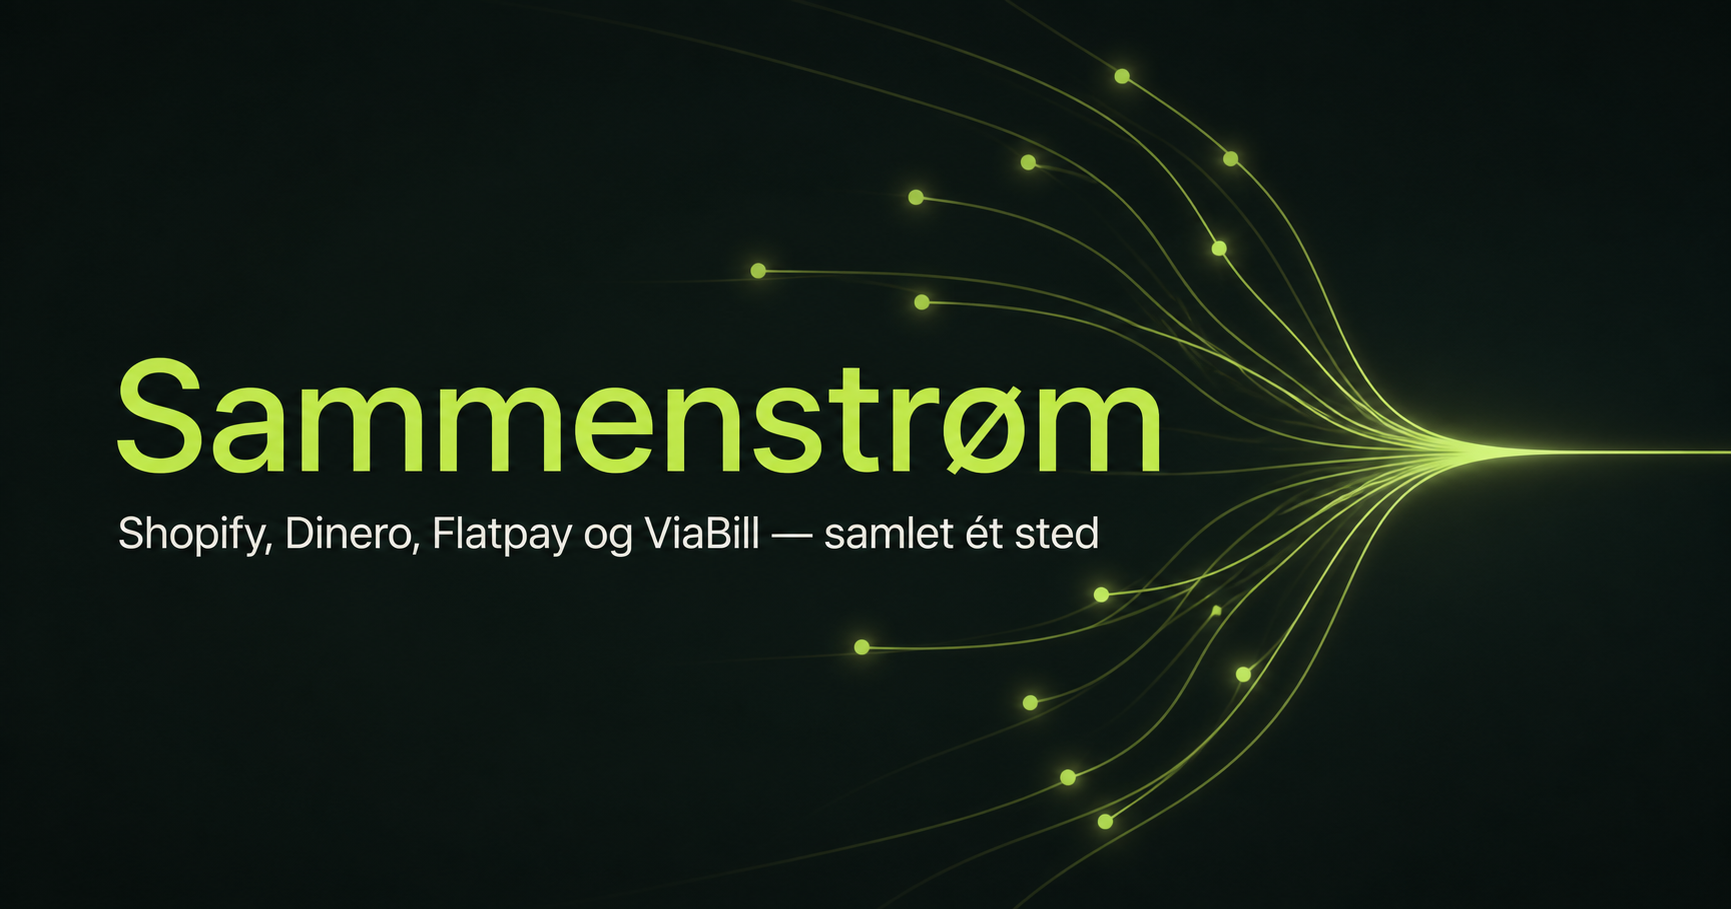
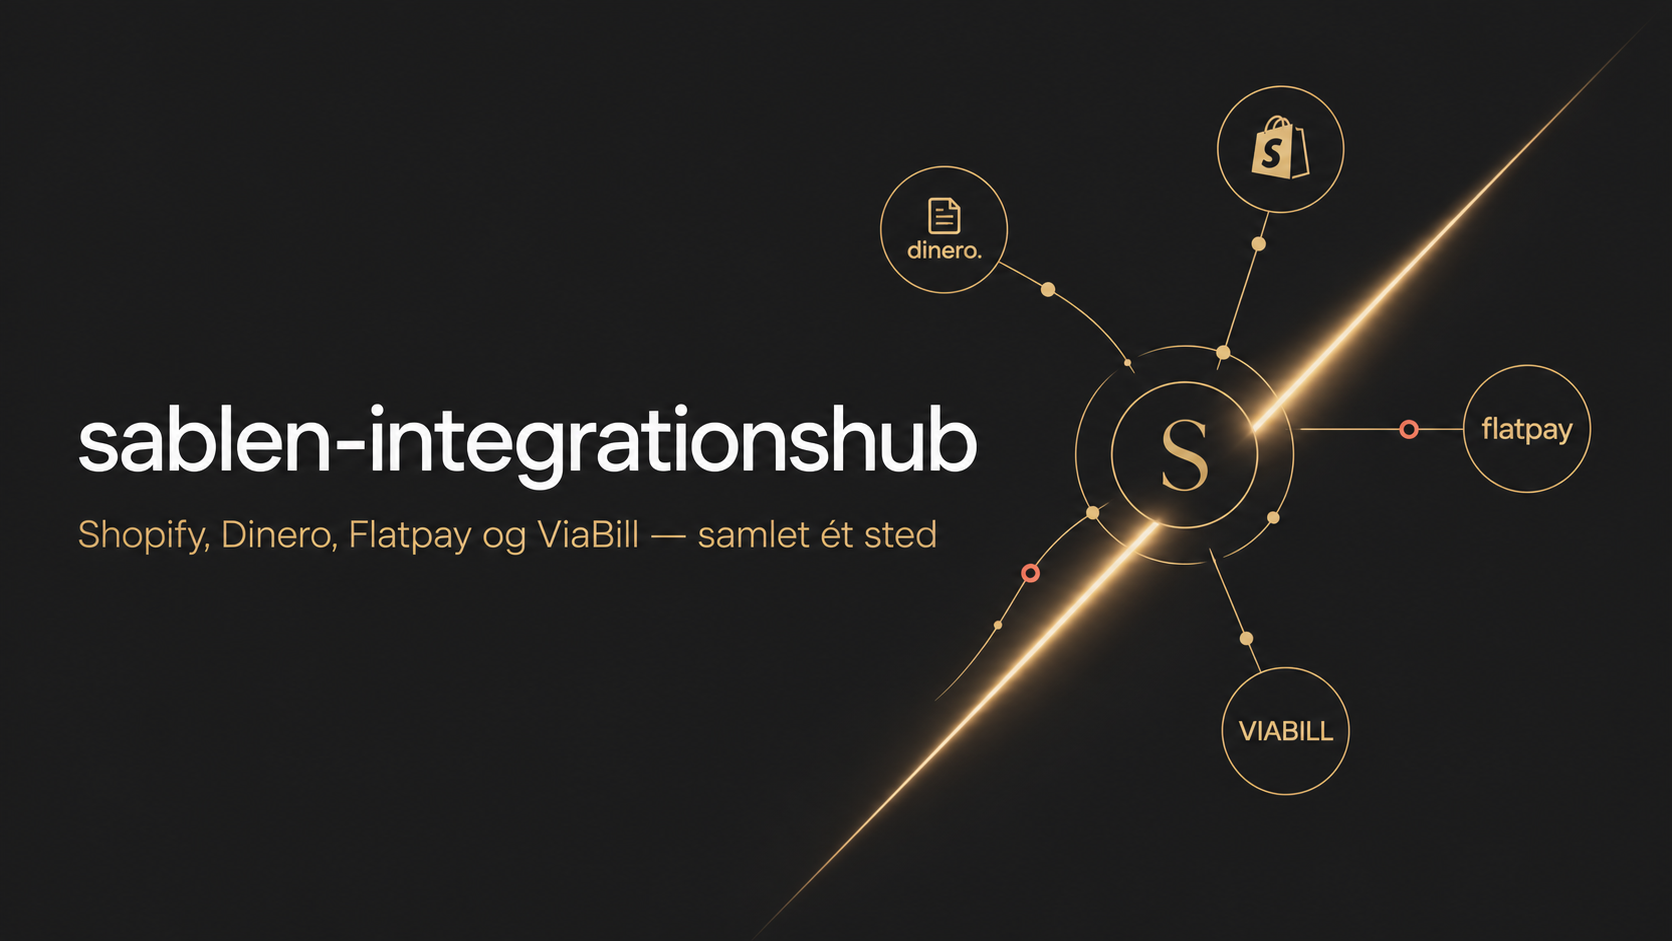
Apply Sablen brand and expand Dinero accounts

diff --git a/app/page.tsx b/app/page.tsx
@@ -1,7 +1,7 @@
 'use client';
 
 import { useEffect, useState } from 'react';
-import { ArrowUpRight, BookOpenCheck, Check, ChevronDown, CircleDollarSign, CreditCard, Landmark, LayoutDashboard, PackageCheck, RefreshCw, Save, Search, Settings2, ShoppingBag, SlidersHorizontal, WalletCards, Zap } from 'lucide-react';
+import { ArrowUpRight, BookOpenCheck, Check, ChevronDown, CircleDollarSign, CreditCard, Landmark, LayoutDashboard, PackageCheck, RefreshCw, Save, Search, Settings2, ShoppingBag, SlidersHorizontal, WalletCards } from 'lucide-react';
 import { Button } from '@/components/ui/button';
 import { Input } from '@/components/ui/input';
 import { Badge } from '@/components/ui/badge';
@@ -20,15 +20,15 @@ export default function Home() {
   const [query, setQuery] = useState('');
   const [view, setView] = useState<'orders' | 'payments' | 'settings'>('orders');
   const [notice, setNotice] = useState('');
-  const [accounts, setAccounts] = useState({ sales: '1000', vat: '6900', fees: '3628', clearing: '55000', start: '2026-09-01' });
+  const [accounts, setAccounts] = useState({ vatCode: 'U25 - Dansk salgsmoms (25%)', noVatCode: 'U0 - Momsfrit (0%)', goodsVat: '1000 - Salg af varer/ydelser m/moms', goodsNoVat: '1050 - Salg af varer/ydelser u/moms', shippingVat: '1350 - Salg af fragt - momspligtig', shippingNoVat: '1300 - Salg af fragt - momsfri', servicesVat: '1000 - Salg af varer/ydelser m/moms', servicesNoVat: '1050 - Salg af varer/ydelser u/moms', refundGoodsVat: '1000 - Salg af varer/ydelser m/moms', refundGoodsNoVat: '1050 - Salg af varer/ydelser u/moms', refundShippingVat: '1350 - Salg af fragt - momspligtig', refundShippingNoVat: '1300 - Salg af fragt - momsfri', refundServicesVat: '1000 - Salg af varer/ydelser m/moms', refundServicesNoVat: '1050 - Salg af varer/ydelser u/moms', fees: '3628 - Betalingsgebyrer', clearing: '55000 - Mellemregning', start: '2026-09-01' });
   const filtered = orders.filter((order) => order.id.includes(query) || order.status.toLowerCase().includes(query.toLowerCase()));
-  useEffect(() => { const saved = localStorage.getItem('sammenstroem-settings'); if (saved) setAccounts(JSON.parse(saved)); }, []);
+  useEffect(() => { const saved = localStorage.getItem('sablen-integrationshub-settings'); if (saved) setAccounts(current => ({ ...current, ...JSON.parse(saved) })); }, []);
   const notify = (message: string) => { setNotice(message); window.setTimeout(() => setNotice(''), 2600); };
-  const saveSettings = () => { localStorage.setItem('sammenstroem-settings', JSON.stringify(accounts)); notify('Indstillingerne er gemt'); };
+  const saveSettings = () => { localStorage.setItem('sablen-integrationshub-settings', JSON.stringify(accounts)); notify('Indstillingerne er gemt'); };
   return (
     <main className="min-h-screen bg-background text-foreground lg:grid lg:grid-cols-[246px_1fr]">
       <aside className="sidebar-shell hidden min-h-screen flex-col lg:flex">
-        <div className="flex h-20 items-center gap-3 px-6"><span className="grid size-9 place-items-center rounded-xl bg-primary text-primary-foreground shadow-[0_0_28px_rgba(174,255,65,.18)]"><Zap className="size-5" fill="currentColor" /></span><div><p className="text-[17px] font-semibold tracking-tight text-white">Sammenstrøm</p><p className="text-[10px] uppercase tracking-[.19em] text-slate-500">Integration hub</p></div></div>
+        <div className="flex h-24 items-center px-6"><img src="/sablen-logo.webp" alt="Sablen" className="h-auto w-[136px]" /></div>
         <nav className="flex-1 px-3 py-4" aria-label="Primær navigation">
           <p className="nav-label">Overblik</p><a className="nav-item" href="#"><LayoutDashboard />Dashboard</a>
           <p className="nav-label mt-7">Bogføring</p><button className={`nav-item w-full ${view === 'orders' ? 'active' : ''}`} onClick={() => setView('orders')}><PackageCheck />Ordrer <span className="ml-auto rounded-md bg-black/10 px-1.5 py-0.5 text-[10px]">24</span></button><button className={`nav-item w-full ${view === 'payments' ? 'active' : ''}`} onClick={() => setView('payments')}><CircleDollarSign />Betalinger</button>
@@ -37,7 +37,7 @@ export default function Home() {
         <div className="m-3 rounded-xl border border-white/8 bg-white/[.035] p-4"><div className="mb-2 flex items-center justify-between"><span className="text-xs text-slate-400">Systemstatus</span><span className="size-2 rounded-full bg-emerald-400 shadow-[0_0_10px_#34d399]" /></div><p className="text-xs font-medium text-white">Alle forbindelser kører</p><p className="mt-1 text-[11px] text-slate-500">Synkroniseret for 2 min. siden</p></div>
       </aside>
       <section className="min-w-0">
-        <header className="flex h-20 items-center justify-between border-b border-border bg-white px-5 md:px-8"><div className="flex items-center gap-3 lg:hidden"><span className="grid size-9 place-items-center rounded-xl bg-primary"><Zap className="size-5" /></span><span className="font-semibold">Sammenstrøm</span></div><div className="hidden items-center gap-2 text-sm text-muted-foreground lg:flex"><span>Min webshop</span><ChevronDown className="size-4" /></div><div className="ml-auto flex items-center gap-3"><div className="hidden text-right sm:block"><p className="text-sm font-medium">Rune Jensen</p><p className="text-xs text-muted-foreground">Administrator</p></div><span className="grid size-9 place-items-center rounded-full bg-[#e7f7d3] text-xs font-bold text-[#31510a]">RJ</span></div></header>
+        <header className="flex h-20 items-center justify-between border-b border-border bg-white px-5 md:px-8"><div className="flex items-center gap-3 lg:hidden"><img src="/sablen-logo.webp" alt="Sablen" className="w-[105px]" /></div><div className="hidden items-center gap-2 text-sm text-muted-foreground lg:flex"><span>Sablen.dk</span><ChevronDown className="size-4" /></div><div className="ml-auto flex items-center gap-3"><div className="hidden text-right sm:block"><p className="text-sm font-medium">Rune Jensen</p><p className="text-xs text-muted-foreground">Administrator</p></div><span className="grid size-9 place-items-center rounded-full bg-[#f1e7d7] text-xs font-bold text-[#6d5430]">RJ</span></div></header>
         {view === 'orders' && <div className="mx-auto max-w-[1440px] px-5 py-7 md:px-8 md:py-9" id="orders">
           <div className="mb-7 flex flex-col justify-between gap-5 sm:flex-row sm:items-end"><div><p className="eyebrow">Shopify · Dinero</p><h1 className="mt-1 text-3xl font-semibold tracking-[-.035em] md:text-[36px]">Ordrer</h1><p className="mt-2 text-sm text-muted-foreground">Følg salg, realisering og bogføring ét sted.</p></div><Button className="h-10 rounded-xl px-4 shadow-sm"><RefreshCw data-icon="inline-start" />Synkronisér nu</Button></div>
           <div className="mb-6 grid gap-3 sm:grid-cols-3"><Stat label="Omsætning i september" value="42.684,00 kr." note="↑ 12,4% fra august" tone="lime" /><Stat label="Klar til bogføring" value="8 ordrer" note="6.842,00 kr. i alt" /><Stat label="Kræver handling" value="1 ordre" note="Senest fejlet kl. 16.32" tone="warn" /></div>
@@ -65,8 +65,9 @@ const payments = [
 ];
 function Payments({ onBook }: { onBook: () => void }) { return <div className="mx-auto max-w-[1440px] px-5 py-7 md:px-8 md:py-9"><div className="mb-7 flex flex-col justify-between gap-5 sm:flex-row sm:items-end"><div><p className="eyebrow">Afstemning · Udbetalinger</p><h1 className="mt-1 text-3xl font-semibold tracking-[-.035em] md:text-[36px]">Betalinger</h1><p className="mt-2 text-sm text-muted-foreground">Afstem gebyrer og bogfør udbetalinger fra dine betalingsudbydere.</p></div><Button className="h-10 rounded-xl px-4" onClick={onBook}><BookOpenCheck />Bogfør 3 betalinger</Button></div><div className="mb-6 grid gap-3 sm:grid-cols-3"><Stat label="Klar til bogføring" value="20.082,57 kr." note="3 udbetalinger" tone="lime" /><Stat label="Gebyrer denne måned" value="450,70 kr." note="2,2% af omsætning" /><Stat label="Difference" value="0,00 kr." note="Alt stemmer" /></div><section className="overflow-hidden rounded-2xl border bg-white"><Table><TableHeader><TableRow className="bg-muted/45"><TableHead className="pl-5">Udbetalingsdato</TableHead><TableHead>Udbyder</TableHead><TableHead>Reference</TableHead><TableHead>Transaktioner</TableHead><TableHead className="text-right">Brutto</TableHead><TableHead className="text-right">Gebyrer</TableHead><TableHead className="text-right">Netto DKK</TableHead><TableHead>Status</TableHead></TableRow></TableHeader><TableBody>{payments.map(p => <TableRow key={p.reference}><TableCell className="pl-5">{p.date}</TableCell><TableCell className="font-medium">{p.provider}</TableCell><TableCell className="text-muted-foreground">{p.reference}</TableCell><TableCell>{p.count}</TableCell><TableCell className="text-right tabular-nums">{p.gross}</TableCell><TableCell className="text-right tabular-nums text-muted-foreground">{p.fees}</TableCell><TableCell className="text-right font-medium tabular-nums">{p.net}</TableCell><TableCell><Badge className={p.status === 'Bogført' ? 'badge-booked' : 'badge-pending'} variant="secondary">{p.status}</Badge></TableCell></TableRow>)}</TableBody></Table></section></div>; }
 
-type Accounts = { sales: string; vat: string; fees: string; clearing: string; start: string };
+type Accounts = { vatCode: string; noVatCode: string; goodsVat: string; goodsNoVat: string; shippingVat: string; shippingNoVat: string; servicesVat: string; servicesNoVat: string; refundGoodsVat: string; refundGoodsNoVat: string; refundShippingVat: string; refundShippingNoVat: string; refundServicesVat: string; refundServicesNoVat: string; fees: string; clearing: string; start: string };
 function Settings({ accounts, setAccounts, onSave }: { accounts: Accounts; setAccounts: React.Dispatch<React.SetStateAction<Accounts>>; onSave: () => void }) {
   const integrations = [{ name: 'Shopify', detail: 'Ordrer og refunderinger', icon: ShoppingBag, connected: true }, { name: 'Dinero', detail: 'Regnskab og bilag', icon: Landmark, connected: true }, { name: 'Flatpay', detail: 'Kortbetalinger og gebyrer', icon: CreditCard, connected: true }, { name: 'ViaBill', detail: 'Delbetalinger og afstemning', icon: WalletCards, connected: false }];
-  return <div className="mx-auto max-w-[1180px] px-5 py-7 md:px-8 md:py-9"><div className="mb-7"><p className="eyebrow">Opsætning</p><h1 className="mt-1 text-3xl font-semibold tracking-[-.035em] md:text-[36px]">Administration</h1><p className="mt-2 text-sm text-muted-foreground">Forbind dine systemer, og bestem hvordan posteringerne skal lande i Dinero.</p></div><h2 className="mb-3 text-sm font-semibold">Integrationer</h2><div className="mb-8 grid gap-3 md:grid-cols-2">{integrations.map(({ name, detail, icon: Icon, connected }) => <div key={name} className="flex items-center gap-4 rounded-2xl border bg-white p-4"><span className="grid size-11 place-items-center rounded-xl bg-muted"><Icon className="size-5" /></span><div className="flex-1"><p className="font-semibold">{name}</p><p className="text-xs text-muted-foreground">{detail}</p></div><Badge className={connected ? 'badge-booked' : ''} variant="secondary">{connected ? 'Forbundet' : 'Ikke forbundet'}</Badge><Button variant="ghost" size="icon-sm" aria-label={`Indstil ${name}`}><ArrowUpRight /></Button></div>)}</div><section className="rounded-2xl border bg-white"><div className="border-b p-5"><div className="flex items-center gap-3"><span className="grid size-10 place-items-center rounded-xl bg-[#e9f8d8]"><Landmark className="size-5 text-[#4c7818]" /></span><div><h2 className="font-semibold">Dinero-kontoplan</h2><p className="text-xs text-muted-foreground">Konti bruges, når ordrer og betalinger bogføres.</p></div></div></div><div className="grid gap-5 p-5 sm:grid-cols-2">{[['sales','Salgskonto','Salg af varer, inkl. moms'],['vat','Momskonto','Salgsmoms 25%'],['fees','Gebyrkonto','Betalings- og transaktionsgebyrer'],['clearing','Mellemregningskonto','Tilgodehavende hos betalingsudbydere']].map(([key,label,help]) => <label key={key} className="block"><span className="text-sm font-medium">{label}</span><Input className="mt-2 h-10" value={accounts[key as keyof Accounts]} onChange={e => setAccounts(a => ({...a,[key]:e.target.value}))} /><span className="mt-1.5 block text-xs text-muted-foreground">{help}</span></label>)}<label className="block"><span className="text-sm font-medium">Integrationen starter fra</span><Input type="date" className="mt-2 h-10" value={accounts.start} onChange={e => setAccounts(a => ({...a,start:e.target.value}))} /><span className="mt-1.5 block text-xs text-muted-foreground">Ældre ordrer bliver ikke automatisk bogført.</span></label><div className="flex items-center justify-between rounded-xl bg-muted/65 p-4"><div><p className="text-sm font-medium">Automatisk bogføring</p><p className="text-xs text-muted-foreground">Bogfør realiserede ordrer løbende</p></div><Switch defaultChecked aria-label="Automatisk bogføring" /></div></div><div className="flex justify-end border-t p-4"><Button className="h-10 rounded-xl px-4" onClick={onSave}><Save />Gem indstillinger</Button></div></section></div>;
+  const Field = ({ name, label }: { name: keyof Accounts; label: string }) => <label className="block"><span className="text-xs font-medium text-muted-foreground">{label}</span><div className="relative mt-1.5"><Input className="h-11 pr-9" value={accounts[name]} onChange={e => setAccounts(a => ({...a,[name]:e.target.value}))} /><ChevronDown className="pointer-events-none absolute right-3 top-1/2 size-4 -translate-y-1/2 text-[#c09960]" /></div></label>;
+  return <div className="mx-auto max-w-[1180px] px-5 py-7 md:px-8 md:py-9"><div className="mb-7"><p className="eyebrow">Opsætning</p><h1 className="mt-1 text-3xl font-semibold tracking-[-.035em] md:text-[36px]">Administration</h1><p className="mt-2 text-sm text-muted-foreground">Forbind dine systemer, og bestem hvordan posteringerne skal lande i Dinero.</p></div><h2 className="mb-3 text-sm font-semibold">Integrationer</h2><div className="mb-8 grid gap-3 md:grid-cols-2">{integrations.map(({ name, detail, icon: Icon, connected }) => <div key={name} className="flex items-center gap-4 rounded-2xl border bg-white p-4"><span className="grid size-11 place-items-center rounded-xl bg-muted"><Icon className="size-5" /></span><div className="flex-1"><p className="font-semibold">{name}</p><p className="text-xs text-muted-foreground">{detail}</p></div><Badge className={connected ? 'badge-booked' : ''} variant="secondary">{connected ? 'Forbundet' : 'Ikke forbundet'}</Badge><Button variant="ghost" size="icon-sm" aria-label={`Indstil ${name}`}><ArrowUpRight /></Button></div>)}</div><section className="rounded-2xl border bg-white"><div className="border-b p-5"><div className="flex items-center gap-3"><span className="grid size-10 place-items-center rounded-xl bg-[#f4eadb]"><Landmark className="size-5 text-[#9a7440]" /></span><div><h2 className="font-semibold">Dinero-kontoplan · Indland og EU</h2><p className="text-xs text-muted-foreground">Konti bruges, når ordrer, fragt og refunderinger bogføres.</p></div></div></div><div className="grid gap-5 p-5 sm:grid-cols-2"><div className="sm:col-span-2 grid gap-5 sm:grid-cols-2"><Field name="vatCode" label="Momskode for salg m/moms" /><Field name="noVatCode" label="Momskode for salg u/moms" /></div><div><h3 className="mb-3 border-b pb-3 font-medium text-[#c06452]">Kontoplan for salg</h3><div className="space-y-4"><Field name="goodsVat" label="Salg af varer m/moms" /><Field name="goodsNoVat" label="Salg af varer u/moms" /><Field name="shippingVat" label="Salg af fragt m/moms" /><Field name="shippingNoVat" label="Salg af fragt u/moms" /><Field name="servicesVat" label="Salg af ydelser m/moms" /><Field name="servicesNoVat" label="Salg af ydelser u/moms" /></div></div><div><h3 className="mb-3 border-b pb-3 font-medium text-[#c06452]">Kontoplan for refundering</h3><div className="space-y-4"><Field name="refundGoodsVat" label="Refundering af varer m/moms" /><Field name="refundGoodsNoVat" label="Refundering af varer u/moms" /><Field name="refundShippingVat" label="Refundering af fragt m/moms" /><Field name="refundShippingNoVat" label="Refundering af fragt u/moms" /><Field name="refundServicesVat" label="Refundering af ydelser m/moms" /><Field name="refundServicesNoVat" label="Refundering af ydelser u/moms" /></div></div><Field name="fees" label="Gebyrkonto" /><Field name="clearing" label="Mellemregningskonto" /><label className="block"><span className="text-xs font-medium text-muted-foreground">Integrationen starter fra</span><Input type="date" className="mt-1.5 h-11" value={accounts.start} onChange={e => setAccounts(a => ({...a,start:e.target.value}))} /></label><div className="flex items-center justify-between rounded-xl bg-muted/65 p-4"><div><p className="text-sm font-medium">Automatisk bogføring</p><p className="text-xs text-muted-foreground">Bogfør realiserede ordrer løbende</p></div><Switch defaultChecked aria-label="Automatisk bogføring" /></div></div><div className="flex justify-end border-t p-4"><Button className="h-10 rounded-xl px-4" onClick={onSave}><Save />Gem indstillinger</Button></div></section></div>;
 }

diff --git a/app/globals.css b/app/globals.css
@@ -53,24 +53,24 @@ body {
 }
 
 :root {
-  --background: #f5f6f2;
-  --foreground: #17201b;
+  --background: #f7f7f8;
+  --foreground: #232323;
   --card: oklch(1 0 0);
   --card-foreground: oklch(0.145 0 0);
   --popover: oklch(1 0 0);
   --popover-foreground: oklch(0.145 0 0);
-  --primary: #b6f15a;
-  --primary-foreground: #17201b;
+  --primary: #c09960;
+  --primary-foreground: #ffffff;
   --secondary: oklch(0.97 0 0);
   --secondary-foreground: oklch(0.205 0 0);
-  --muted: #f0f2ed;
-  --muted-foreground: #6a746e;
+  --muted: #f3f1ee;
+  --muted-foreground: #676869;
   --accent: oklch(0.97 0 0);
   --accent-foreground: oklch(0.205 0 0);
   --destructive: oklch(0.577 0.245 27.325);
-  --border: #dfe3dc;
-  --input: #d9ded6;
-  --ring: #7fb72d;
+  --border: #e3dfda;
+  --input: #d8d2ca;
+  --ring: #c09960;
   --chart-1: oklch(0.87 0 0);
   --chart-2: oklch(0.556 0 0);
   --chart-3: oklch(0.439 0 0);
@@ -87,16 +87,16 @@ body {
   --sidebar-ring: oklch(0.708 0 0);
 }
 
-::selection { background: #cafa80; color: #17201b; }
-.sidebar-shell { background: #121a17; color: #94a39b; border-right: 1px solid #24302b; }
-.nav-label { padding: 0 12px 8px; color: #647169; font-size: 10px; font-weight: 700; letter-spacing: .15em; text-transform: uppercase; }
-.nav-item { display: flex; height: 42px; align-items: center; gap: 11px; border-radius: 10px; padding: 0 12px; color: #9eaaa4; font-size: 13px; font-weight: 500; transition: .18s ease; }
+::selection { background: #e8d4b4; color: #232323; }
+.sidebar-shell { background: #232323; color: #c8c4be; border-right: 1px solid #353535; }
+.nav-label { padding: 0 12px 8px; color: #817c75; font-size: 10px; font-weight: 700; letter-spacing: .15em; text-transform: uppercase; }
+.nav-item { display: flex; height: 42px; align-items: center; gap: 11px; border-radius: 8px; padding: 0 12px; color: #bbb7b0; font-size: 13px; font-weight: 500; transition: .18s ease; }
 .nav-item svg { width: 17px; height: 17px; }
 .nav-item:hover { background: rgba(255,255,255,.05); color: white; }
-.nav-item.active { background: #b6f15a; color: #17201b; box-shadow: 0 8px 24px rgba(182,241,90,.08); }
-.eyebrow { color: #63872b; font-size: 10px; font-weight: 750; letter-spacing: .14em; text-transform: uppercase; }
+.nav-item.active { background: #c09960; color: white; box-shadow: 0 8px 24px rgba(192,153,96,.12); }
+.eyebrow { color: #c16452; font-size: 10px; font-weight: 750; letter-spacing: .14em; text-transform: uppercase; }
 .stat-card { min-height: 126px; border: 1px solid var(--border); border-radius: 16px; background: white; padding: 18px; }
-.stat-lime { border-color: #c4e99a; background: #effadc; }
+.stat-lime { border-color: #dfc9a6; background: #f7efe3; }
 .status-dot { display: inline-block; width: 7px; height: 7px; margin-right: 8px; border-radius: 50%; vertical-align: 1px; }
 .status-dot.ok { background: #48a868; }
 .status-dot.wait { background: #c4a237; }

diff --git a/app/layout.tsx b/app/layout.tsx
@@ -4,9 +4,9 @@ import './globals.css';
 const geistSans = Geist({ variable: '--font-geist-sans', subsets: ['latin'] });
 const geistMono = Geist_Mono({ variable: '--font-geist-mono', subsets: ['latin'] });
 export const metadata: Metadata = {
-  title: 'Sammenstrøm — Integration hub',
+  title: 'sablen-integrationshub',
   description: 'Saml Shopify, Dinero, Flatpay og ViaBill i én bogføringsplatform.',
-  openGraph: { title: 'Sammenstrøm', description: 'Shopify, Dinero, Flatpay og ViaBill — samlet ét sted', images: [{ url: '/og.png', width: 1536, height: 1024 }] },
-  twitter: { card: 'summary_large_image', title: 'Sammenstrøm', description: 'Shopify, Dinero, Flatpay og ViaBill — samlet ét sted', images: ['/og.png'] },
+  openGraph: { title: 'sablen-integrationshub', description: 'Shopify, Dinero, Flatpay og ViaBill — samlet ét sted', images: [{ url: '/og.png', width: 1536, height: 1024 }] },
+  twitter: { card: 'summary_large_image', title: 'sablen-integrationshub', description: 'Shopify, Dinero, Flatpay og ViaBill — samlet ét sted', images: ['/og.png'] },
 };
 export default function RootLayout({ children }: Readonly<{ children: React.ReactNode }>) { return <html lang="da"><body className={`${geistSans.variable} ${geistMono.variable} antialiased`}>{children}</body></html>; }
